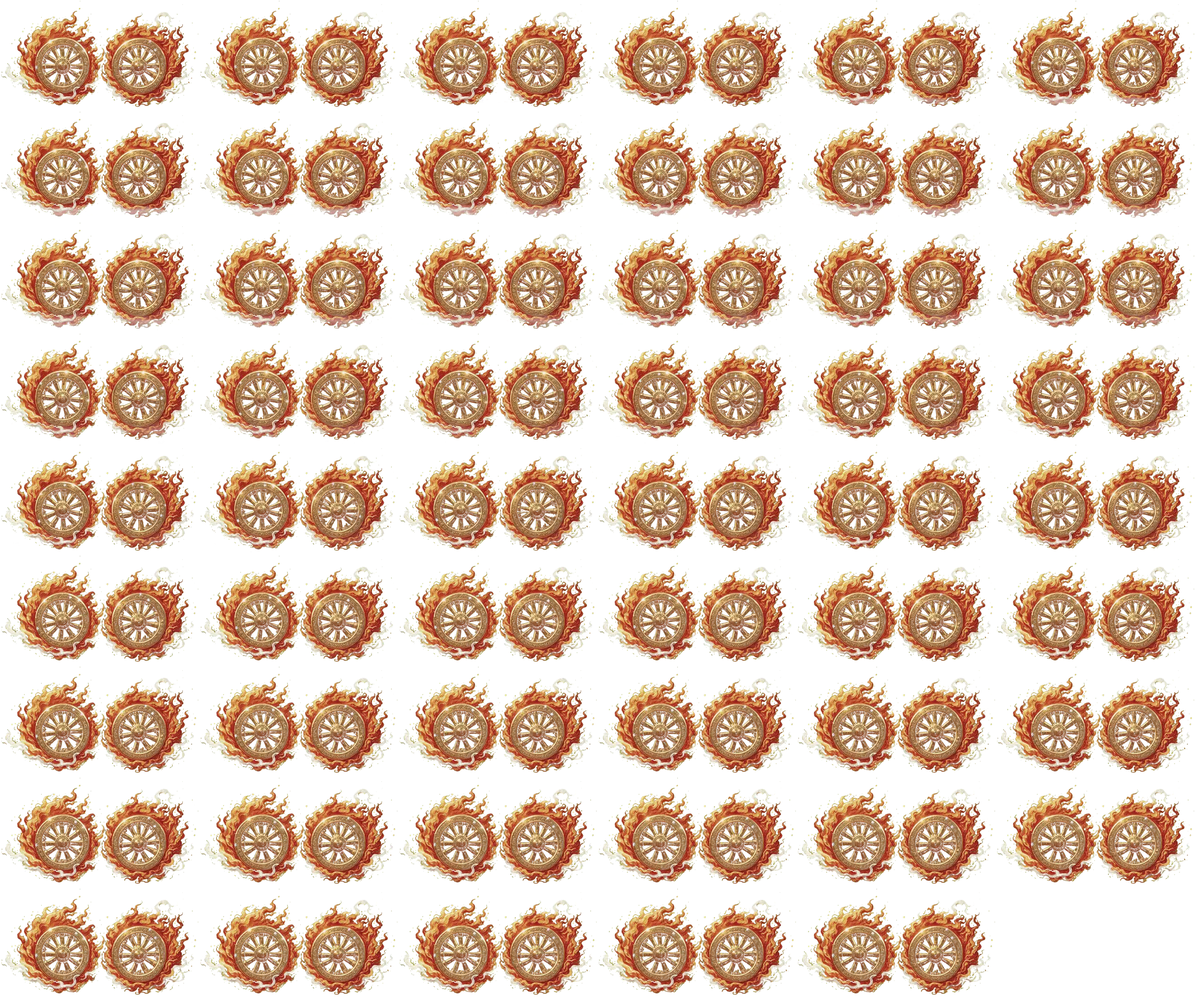
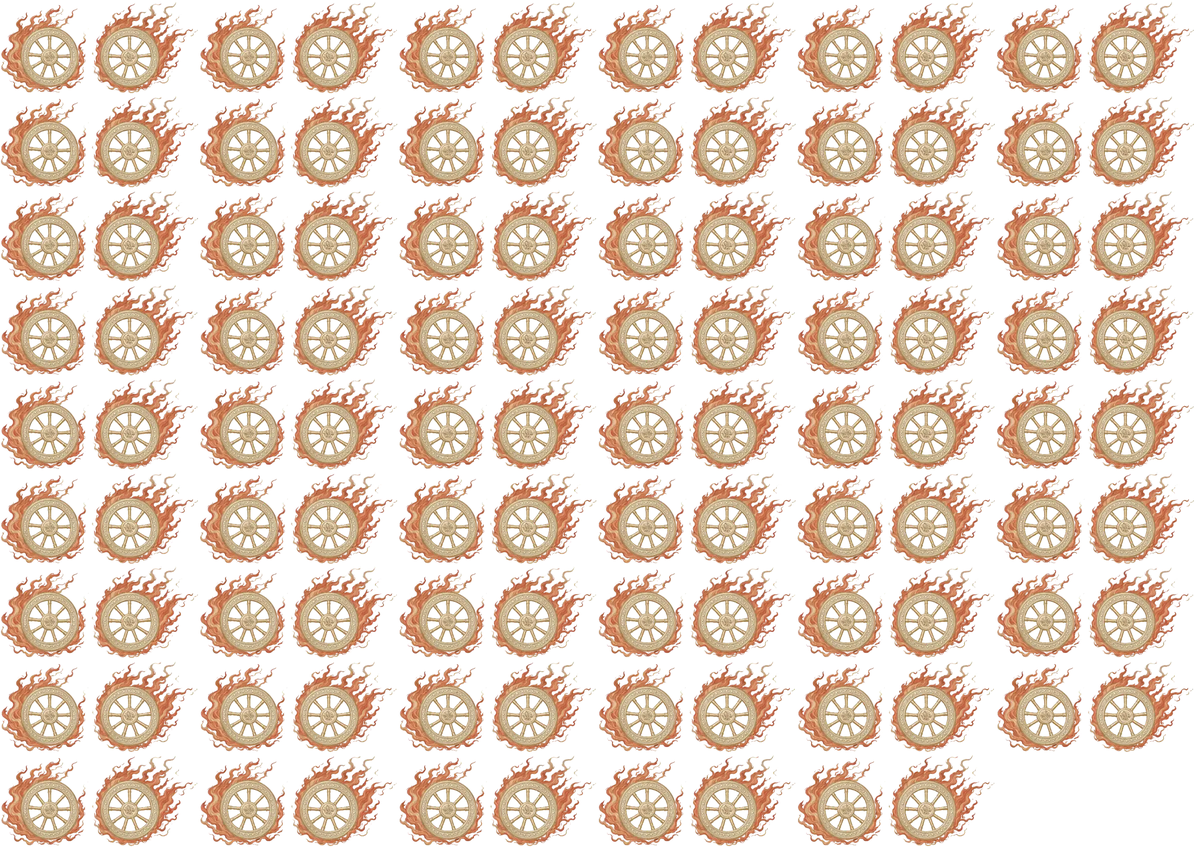
風火輪換成原本風格（AI Video 用重畫的 #2 做的新火焰影片），不調淡
- 新輪子 10 根輻條：找中心改成轉 36 度比對；圓盤從影片第一格剪（H3 重新編碼後跟起始圖差幾像素）
- 輻條之間改成透明：圓盤用亮度去背，網頁先把影片裡不會轉的輪子挖掉再畫會轉的圓盤（不會看到兩組輻條）
- 一對輪子連火焰的寬高比 1.8 → 2.12

diff --git a/js/weapons-view.js b/js/weapons-view.js
@@ -86,9 +86,14 @@ export class WeaponsView {
       m.drawImage(fireImg, f[0], f[1], f[2], f[3], 0, 0, fire.width, fire.height);
     }
     // 輪子：蓋在影片的輪子上，慢慢順時針轉（畫在小畫布裡，座標就是圖集格子的座標）
-    m.globalCompositeOperation = "source-over";
+    // 先把影片裡那個不會轉的輪子挖掉（輻條之間是透明的，不挖會看到兩組輻條）
     m.globalAlpha = 1;
     for (const wh of fire.wheels) {
+      m.globalCompositeOperation = "destination-out";
+      m.beginPath();
+      m.arc(wh.x, wh.y, wh.r, 0, Math.PI * 2);
+      m.fill();
+      m.globalCompositeOperation = "source-over";
       m.save();
       m.translate(wh.x, wh.y);
       m.rotate(this.s.wheelAngle);

diff --git a/js/weapons.js b/js/weapons.js
@@ -12,7 +12,7 @@ export const MAX_SPARKS = 60;
 const THROW = 160; // 飛一圈幾格
 const TIP = [0.95, 0.055]; // 火焰中心在槍圖裡的位置（tools/prep_weapons.py 量的槍尖，往內一點）
 const SPEAR_ASPECT = 900 / 897;
-const WHEELS_ASPECT = 1.8; // 一對風火輪連火焰的寬高比（tools/prep_fenghuolun.py 裁出來的）
+const WHEELS_ASPECT = 2.12; // 一對風火輪連火焰的寬高比（tools/prep_fenghuolun.py 裁出來的）
 
 const clamp = (v, a, b) => Math.max(a, Math.min(b, v));
 

diff --git a/tools/prep_fenghuolun.py b/tools/prep_fenghuolun.py
@@ -1,16 +1,16 @@
 """三太子的風火輪：AI Video 做的火焰影片（黑底）變成動畫圖集，輪子另外剪下來給程式轉。
 用法: python -I tools/prep_fenghuolun.py
-輸入: assets/raw/chatgpt2/fenghuolun-frames/0001～0107.png（H3，黑底，1920x1088，最後一格＝第一格）
-      assets/raw/chatgpt2/fenghuolun-start.png（第一格：去背的輪子放在純黑上）
+輸入: assets/raw/chatgpt2/fenghuolun-soft-frames/0001～0107.png（H3，黑底，1920x1088，最後一格＝第一格）
+      （第一格是 fenghuolun-soft-start.png：原本風格重畫的輪子 #2 放在純黑上；輪子圓盤從影片第一格剪）
 輸出: assets/elements/fenghuolun.webp（火焰動畫圖集）、fenghuolun-wheel.webp（左右兩個輪子的圓盤）、fenghuolun.json
 
 做法：
 1. 火焰：黑底 → 用亮度當透明度（暗的地方透明），顏色除回去。影片中段底下有一層很淡的灰煙，
    灰色、不夠亮的地方門檻再拉高（白色的風捲雲很亮，會留下來）。每 2 格取 1 格（54 格），播的時候兩格之間混過去。
 2. 輪子：影片裡輪子幾乎不轉（H3 只會讓火動），所以從第一格把兩個輪子的圓盤剪下來，
-   網頁上蓋在影片的輪子上面、由程式轉。輪子中心用「轉 30 度（12 根輻條）跟原來最像」找；
-   半徑 140：再往外就是火焰了（量過：半徑 144 以外橘紅色突然變多）。
-3. 調淡（tools/tone.py，強度 0.6）：配月白網頁，火還是看得出是火。
+   網頁上蓋在影片的輪子上面、由程式轉。輪子中心用「轉 36 度（10 根輻條）跟原來最像」找；
+   半徑 138：再往外就是火焰了（量過：半徑 144 以外橘紅色突然變多）。
+3. 不調淡：原本風格已經很淡雅（只有鳳凰是油畫風，2026-11-15 定案）。
 """
 import json
 import sys
@@ -28,8 +28,9 @@ OUT = Path("assets/elements")
 CELL_W = 400
 COLS = 6
 STRIDE = 2
-R = 140  # 輪子圓盤半徑（原圖像素）
-TONE = 0.6
+R = 138  # 輪子圓盤半徑（原圖像素）
+SPOKES = 10
+TONE = 0
 
 
 def key(path):
@@ -46,13 +47,13 @@ def key(path):
 
 
 def wheel_center(gray, est):
-    """轉 30 度跟原來最像的那一點（12 根輻條）"""
+    """轉一根輻條的角度後跟原來最像的那一點"""
     best = None
     for dy in range(-20, 21, 2):
         for dx in range(-20, 21, 2):
             cx, cy = est[0] + dx, est[1] + dy
             patch = gray[cy - 120 : cy + 120, cx - 120 : cx + 120]
-            rot = ndimage.rotate(patch, 30, reshape=False, order=1)
+            rot = ndimage.rotate(patch, 360 / SPOKES, reshape=False, order=1)
             yy, xx = np.mgrid[-120:120, -120:120]
             v = np.abs(rot - patch)[(xx**2 + yy**2) < 108**2].mean()
             if best is None or v < best[0]:
@@ -60,7 +61,7 @@ def wheel_center(gray, est):
     return best[1], best[2]
 
 
-files = sorted((RAW / "fenghuolun-frames").glob("*.png"))[:-1:STRIDE]  # 最後一格＝第一格，不取
+files = sorted((RAW / "fenghuolun-soft-frames").glob("*.png"))[:-1:STRIDE]  # 最後一格＝第一格，不取
 frames = [key(f) for f in files]
 H, W = frames[0].shape[:2]
 union = np.zeros((H, W), bool)
@@ -82,17 +83,21 @@ OUT.mkdir(parents=True, exist_ok=True)
 atlas.save(OUT / "fenghuolun.webp", quality=72, method=6)
 
 # 輪子圓盤
-start = np.asarray(Image.open(RAW / "fenghuolun-start.png").convert("RGB")).astype(float)
+# 從影片第一格剪（H3 重新編碼後輪子跟起始圖差幾像素，要對齊影片裡的輪子）
+start = np.asarray(Image.open(files[0]).convert("RGB")).astype(float)
 gray = start.mean(axis=2)
-centers = [wheel_center(gray, (744, 600)), wheel_center(gray, (1154, 600))]
+centers = [wheel_center(gray, (765, 559)), wheel_center(gray, (1157, 560))]
 d = round(2 * R * k)
 sheet = Image.new("RGBA", (d * 2, d), (0, 0, 0, 0))
 yy, xx = np.mgrid[-R:R, -R:R]
 edge = np.clip((R - np.hypot(xx + 0.5, yy + 0.5)) / 4, 0, 1)  # 邊緣 4 像素淡出
 wheels = []
 for i, (cx, cy) in enumerate(centers):
-    disc = tone(start[cy - R : cy + R, cx - R : cx + R], TONE)
-    rgba = np.dstack([disc, edge * 255]).clip(0, 255).astype(np.uint8)
+    # 輻條之間的黑底要透明（網頁會先把影片裡的輪子挖掉，再畫這個會轉的圓盤）
+    disc = start[cy - R : cy + R, cx - R : cx + R]
+    da = np.clip((disc.max(axis=2) - 45) / 70, 0, 1)
+    disc = tone(np.clip(disc / np.maximum(da[..., None], 0.3), 0, 255), TONE)
+    rgba = np.dstack([disc, da * edge * 255]).clip(0, 255).astype(np.uint8)
     sheet.alpha_composite(Image.fromarray(rgba, "RGBA").resize((d, d), Image.LANCZOS), (i * d, 0))
     wheels.append({"x": round((cx - box[0]) * k, 1), "y": round((cy - box[1]) * k, 1), "r": round(R * k, 1), "src": [i * d, 0, d, d]})
 sheet.save(OUT / "fenghuolun-wheel.webp", quality=85, method=6)
